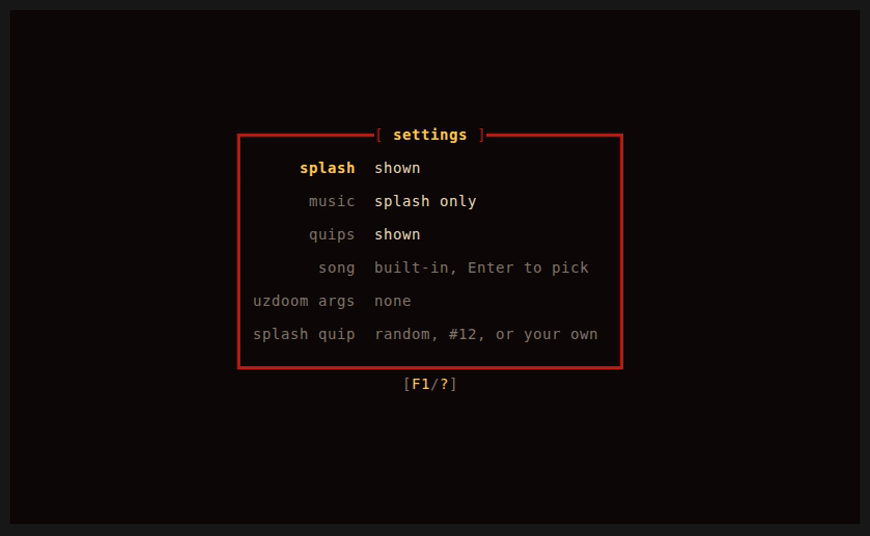
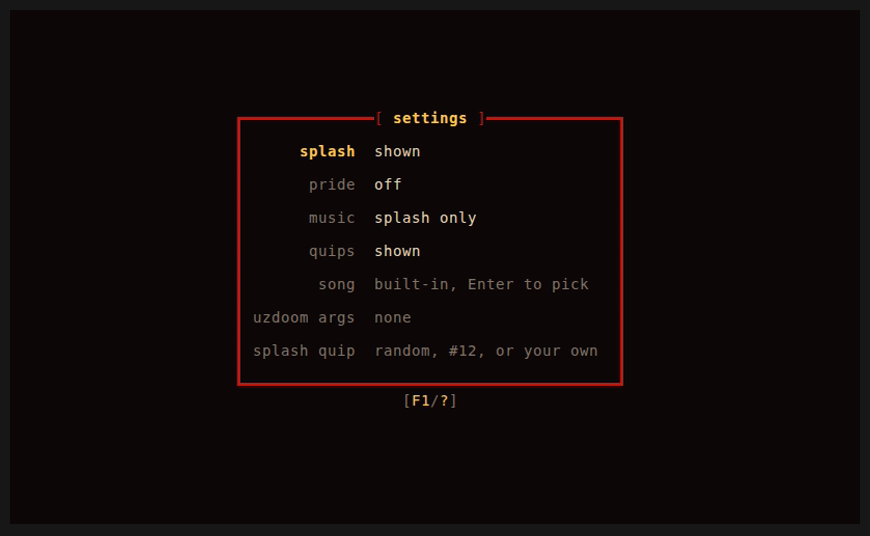
Bring the README and DATA_LAYOUT up to date for 0.8.0: the pride splash's full flag, pride in the settings, --with-pride in the synopsis, which fields left config.rite, and a fixed quip in the demo

Changed region(s): [[0.2483, 0.209, 0.7448, 0.7761]]

diff --git a/README.md b/README.md
@@ -4,7 +4,7 @@
 
 A terminal launcher for [UZDoom](https://github.com/UZDoom/UZDoom). Group your wads into named profiles, launch them in one keypress, and host or join multiplayer games, with missing wads downloaded automatically from the host.
 
-![The tdl splash screen: the title over the Doom fire](demo.gif)
+![The tdl splash screen: the title over the Doom fire, with the quip "Hell on Earth, heaven in a terminal!"](demo.gif)
 
 ## Features
 
@@ -33,8 +33,8 @@ The profiles here are examples made for the screenshots.
 | **Inspecting a wad.** `Space` on a marked wad says what's wrong and how to fix it. | **Hosting.** Player count, mode, map, port and join code; an empty map lets UZDoom pick. |
 | ![The search line, looking for a wad by name with a star](docs/screenshots/search.png) | ![Two profiles selected, with one profile already copied](docs/screenshots/selection.png) |
 | **Searching.** `/` and a name; a `*` in front looks in the wads instead. Nothing moves until `Enter`. | **Selecting and copying.** `Shift+V` and `M` pick rows; the row under the panel says what is selected and what is copied. |
-| ![The settings: splash, music, quips, song, UZDoom arguments and splash quip](docs/screenshots/settings.png) | |
-| **Settings.** `O` in the launcher: the splash, the UZDoom arguments, the music, song and quips, the same in every vault. | |
+| ![The settings: splash, pride, music, quips, song, UZDoom arguments and splash quip](docs/screenshots/settings.png) | |
+| **Settings.** `O` in the launcher: the splash and the pride splash, the music, quips and song, the UZDoom arguments and the splash quip, the same in every vault. | |
 
 ## Requirements
 
@@ -58,7 +58,7 @@ On first run, press `U` to select your UZDoom executable and `W` to select a bas
 ### Command line
 
 ```sh
-tdl [--vault <dir> | --vault-once <dir> | --forget-vault | --forget-vault-once] [--wads <dir>... | --wads-once <dir>... | --forget-wads | --forget-wads-once] [--unseal <scroll> | --unseal-delete <scroll> | --unseal-delete-force <scroll>] [--no-splash] [--splash-quip <quip> | --no-quips] [[--music <song>] [--keep-music] | --no-music] [--uzdoom <file>] [--base-wad <file>]
+tdl [--vault <dir> | --vault-once <dir> | --forget-vault | --forget-vault-once] [--wads <dir>... | --wads-once <dir>... | --forget-wads | --forget-wads-once] [--unseal <scroll> | --unseal-delete <scroll> | --unseal-delete-force <scroll>] [--no-splash] [--splash-quip <quip> | --no-quips] [[--music <song>] [--keep-music] | --no-music] [--uzdoom <file>] [--base-wad <file>] [--with-pride]
 tdl launch|host|join ...                  # see Commands below
 tdl --seal <scroll> [--with-settings]
 tdl --list-quips
@@ -74,7 +74,7 @@ tdl --list-quips
 - `--music <song>` plays your own song (wav, mp3, flac or ogg) instead of "Inevitable Doom". It is checked before tdl starts, so a file it can't play is reported right away. `--keep-music` keeps the music going in the launcher after the splash, as the **music** setting does. To use your song every time, pick it in the **song** setting. `--no-music` plays no music at all for this run, not even on the splash, and can't go with the other two.
 - `--uzdoom <file>` and `--base-wad <file>` play with that UZDoom or base wad for this run only, over every profile's own and the global one, for trying another UZDoom build or IWAD quickly. They are never saved and never asked about; the launcher's panels mark them **session**. A file that isn't there stops tdl before it starts.
 - `--seal <scroll>` seals every profile in the vault into a new `.scroll`, with no windows, and closes: `tdl --seal backup.scroll`. It never writes over a file that is already there. `--with-settings` seals your global settings in too (never your song); whoever unseals it gets them in place of their own.
-- `--with-pride` plays the pride splash for the run (the **pride** setting plays it every time): a fire that burns through every color of the rainbow, under the logo in the trans flag's blue, pink and white.
+- `--with-pride` plays the pride splash for the run (the **pride** setting plays it every time): a fire that burns through every color of the rainbow, under the logo in the whole trans flag, a stripe a row: blue, pink, white, pink, blue. Without it the logo cools a step a row, from white-hot flame at the top to blood at the bottom.
 - `--forget-vault` opens the standard vault, and asks whether to stop opening the one remembered from `--vault`. `--forget-vault-once` opens the standard vault just for this run, and asks nothing.
 - `--wads <dir>` (as many times as you like) says where your wads are: file pickers open there instead of the current directory, and joining looks there for wads you already have. tdl asks whether to keep the dirs for this **[S]ession** only, **[G]lobal**ly for every vault, or for this **[V]ault**. Kept dirs are used whenever tdl starts without `--wads`: the vault's own first, then the global ones. `--wads-once <dir>` uses the dirs the same way, just for this run, without asking.
 - `--forget-wads` looks for wads only in the downloads this run, and asks whether to forget the wad dirs kept **[G]lobal**ly, for this **[V]ault**, or **[B]oth**. `--forget-wads-once` leaves them out just for this run, and asks nothing.
@@ -155,9 +155,9 @@ Pasting a wad whose file name the profile already has asks the same three things
 - **splash**: whether the fire splash plays when tdl starts.
 - **pride**: **on** plays the pride splash every time, as `--with-pride` does for one run, from the next start on.
 - **music**: **off** (no music at all, as `--no-music` does for one run), **splash only** (it fades out with the splash), or **keeps playing** in the launcher (as `--keep-music` does for one run). `J`/`→` goes to the next choice and `K`/`←` back.
-- **uzdoom args**: extra arguments passed to UZDoom on every launch, host and join, before the wads, such as `-nomusic +vid_fps 1`. They are split at spaces; quotes aren't understood.
-- **song**: a song of your own (wav, mp3, flac or ogg) to play instead of "Inevitable Doom", for every vault. `Enter` opens a file picker, and `Backspace` goes back to the built-in track. A new song plays straight away if the music is playing. `--music` still wins at startup, and a song that has gone missing is mentioned at startup and the built-in track plays instead.
 - **quips**: **hidden** leaves the quips out of every window, the splash screen and the waiting windows alike, for every vault. `--splash-quip` still shows its quip on the splash.
+- **song**: a song of your own (wav, mp3, flac or ogg) to play instead of "Inevitable Doom", for every vault. `Enter` opens a file picker, and `Backspace` goes back to the built-in track. A new song plays straight away if the music is playing. `--music` still wins at startup, and a song that has gone missing is mentioned at startup and the built-in track plays instead.
+- **uzdoom args**: extra arguments passed to UZDoom on every launch, host and join, before the wads, such as `-nomusic +vid_fps 1`. They are split at spaces; quotes aren't understood.
 - **splash quip**: the quip under the splash logo every time tdl starts, for every vault. Leave it empty for a random one, or type it the same way as `--splash-quip`: `#12` for built-in quip 12, your own words, or both (`#12, hun!`). `--splash-quip` still wins for the run it's given. In this field `?` is typed like any letter, so only `F1` shows its keys.
 
 ### Sharing profiles
@@ -200,7 +200,7 @@ Everything visual lives in a few small files, so it can be changed without touch
 | --- | --- |
 | `src/theme.rs` | The palette (blood, hellfire, bone, nukage…), what each part of the interface is drawn with, border styles, the status glyphs, and the trans flag's colors for the pride splash |
 | `src/layout.rs` | The smallest terminal size, margins, padding, how far the launcher and editor grow into free space (`GROW_PERCENT`, `MAX_GROWN_WIDTH`), and how windows are centered and stacked |
-| `src/screens/splash.rs` | The startup logo (and its trans flag stripes), tagline, the "press any key" hint and how fast it pulses, and how fast the pride fire goes round the rainbow |
+| `src/screens/splash.rs` | The startup logo and the color of each of its rows (flame to blood, or the trans flag's stripes), tagline, the "press any key" hint and how fast it pulses, and how fast the pride fire goes round the rainbow |
 | `src/widgets/fire.rs` | The fire itself: its palette, its rainbow, and how high the flames reach |
 | `src/popups.rs` | How wide popup text gets before it wraps |
 
@@ -212,7 +212,7 @@ Setting `BACKGROUND` in `theme.rs` to `Color::Reset` keeps your terminal's own b
 ./demo-screenshots.sh
 ```
 
-It builds the release binary, records ten seconds of the splash screen into `demo.gif` (`demo.tape`), then lays out the same example profiles the tests use and saves each screen the README shows to `docs/screenshots/` (`screenshots.tape`). It needs `vhs`, `ttyd` and `ffmpeg`. Both tapes run tdl on a throwaway vault with its home in `/tmp`, so your profiles and settings are never read or written, and those dirs are removed afterwards.
+It builds the release binary, records ten seconds of the splash screen into `demo.gif` (`demo.tape`, always with quip 17, so the demo is the same every time), then lays out the same example profiles the tests use and saves each screen the README shows to `docs/screenshots/` (`screenshots.tape`). It needs `vhs`, `ttyd` and `ffmpeg`. Both tapes run tdl on a throwaway vault with its home in `/tmp`, so your profiles and settings are never read or written, and those dirs are removed afterwards.
 
 ## Credits
 

diff --git a/DATA_LAYOUT.md b/DATA_LAYOUT.md
@@ -12,7 +12,7 @@ tdl stores two kinds of files: **config** (what you set up) and **data** (what t
 
 Pass `--vault /some/dir` to use `/some/dir/config` and `/some/dir/data` instead. The older form, the dir on its own (`tdl /some/dir`), still works. tdl then asks whether to open that vault every time; if you say yes, it is remembered in `global.rite` (below) and opened whenever tdl starts without `--vault`. If it has gone missing, tdl says so and opens the standard dirs. `--vault-once /some/dir` opens a vault the same way without asking. `tdl --forget-vault` opens the standard dirs and asks whether to forget the remembered vault; `tdl --forget-vault-once` opens them without asking.
 
-`global.rite` always lives in the standard config dir, whichever vault is open, since it is the one place every vault can find. It holds `vault` (the vault to open by default), `wad_dirs` (wad dirs kept for every vault from `--wads`) `music` (`Off`, `Splash` or `Kept`: no music, music on the splash screen only, or music that keeps playing in the launcher; missing in older files, which count as `Splash`), `splash_quip` (the splash screen's quip: `Random`, or `Custom` with the text as typed, in which every `#<number>` stands for that built-in quip; missing in older files, which count as `Random`, and a number this tdl has no quip for shows a random one), `no_quips` (`true` to leave the quips out of every window; missing in older files, which count as `false`) `song` (the path of a song to play instead of the built-in track, picked in the settings; missing in older files, which count as the built-in one), `uzdoom` (the UZDoom executable used by profiles that don't set their own, `U` in the launcher), `base_wad` (the default base wad, saved like a profile's: `path`, `hash`, `size`, `volatile` and `modified`; `W` in the launcher), `uzdoom_args` (extra arguments for UZDoom, as one line of text split at spaces, passed on every launch, host and join before the wads; **uzdoom args** in the settings), `skip_splash` (`true` to go straight to the launcher; **splash** in the settings), `pride` (`true` to play the pride splash every time; **pride** in the settings; missing in older files, which count as `false`) and `host_port` (the port the last game was hosted on, offered again in the host form; empty for the default, 8080). Those last five were kept in each vault's `config.rite` before its edition 5, and are missing in older `global.rite` files, which count as none, `false` or empty.
+`global.rite` always lives in the standard config dir, whichever vault is open, since it is the one place every vault can find. It holds `vault` (the vault to open by default), `wad_dirs` (wad dirs kept for every vault from `--wads`), `music` (`Off`, `Splash` or `Kept`: no music, music on the splash screen only, or music that keeps playing in the launcher; missing in older files, which count as `Splash`), `splash_quip` (the splash screen's quip: `Random`, or `Custom` with the text as typed, in which every `#<number>` stands for that built-in quip; missing in older files, which count as `Random`, and a number this tdl has no quip for shows a random one), `no_quips` (`true` to leave the quips out of every window; missing in older files, which count as `false`), `song` (the path of a song to play instead of the built-in track, picked in the settings; missing in older files, which count as the built-in one), `uzdoom` (the UZDoom executable used by profiles that don't set their own, `U` in the launcher), `base_wad` (the default base wad, saved like a profile's: `path`, `hash`, `size`, `volatile` and `modified`; `W` in the launcher), `uzdoom_args` (extra arguments for UZDoom, as one line of text split at spaces, passed on every launch, host and join before the wads; **uzdoom args** in the settings), `skip_splash` (`true` to go straight to the launcher; **splash** in the settings), `pride` (`true` to play the pride splash every time; **pride** in the settings; missing in older files, which count as `false`) and `host_port` (the port the last game was hosted on, offered again in the host form; empty for the default, 8080). `uzdoom`, `base_wad`, `uzdoom_args`, `skip_splash` and `host_port` were kept in each vault's `config.rite` before its edition 5, and are missing in older `global.rite` files, which count as none, `false` or empty.
 
 The macOS paths follow the `directories` crate's documentation and have not been tried on a Mac. On macOS the two dirs are the same, so the files below share one dir. That is why the profiles dir and the downloads dir start with a dot: profile names can't contain one, so those dirs can never be mistaken for a profile's data dir.
 
